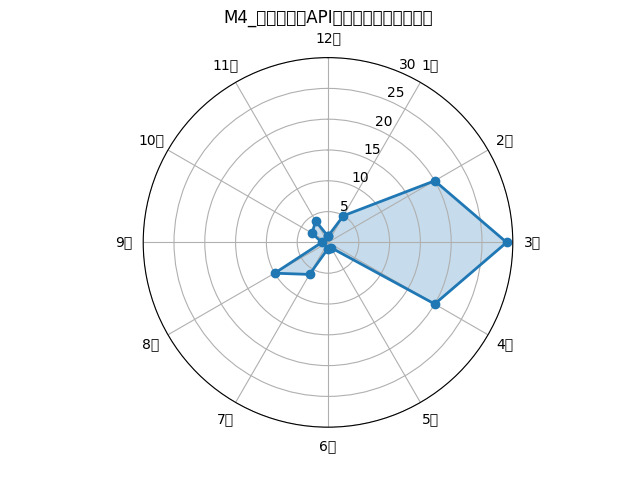
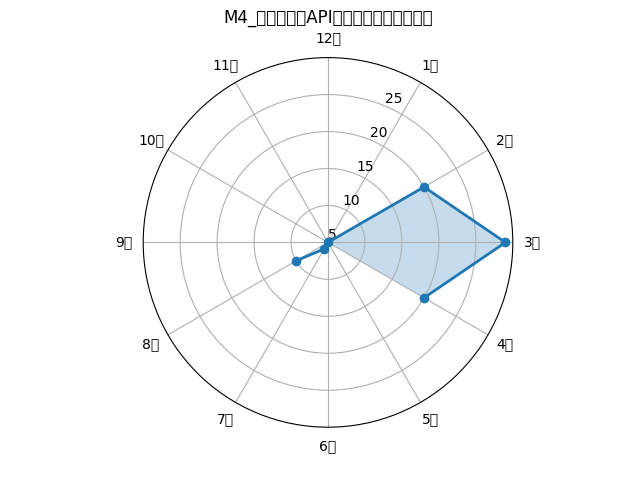
Auto-save: 2025-09-16 05:30:28

diff --git a/report-autogenerator/user_api_counter.py b/report-autogenerator/user_api_counter.py
@@ -1,9 +1,16 @@
+
 import pandas as pd
 import os
 from collections import Counter
-
 import matplotlib.pyplot as plt
 import numpy as np
+import glob
+
+# outputフォルダを空にする
+out_dir = os.path.join(os.path.dirname(__file__), 'output')
+os.makedirs(out_dir, exist_ok=True)
+for f in glob.glob(os.path.join(out_dir, '*_radar.png')):
+    os.remove(f)
 
 # source_dataフォルダ内のExcelファイル一覧を取得
 data_dir = os.path.join(os.path.dirname(__file__), 'source_data')
@@ -25,24 +32,81 @@ for file in files:
 
         # レーダーチャート作成（12が0時、1-11が時計回りに並ぶように修正）
         labels = [f'{i}時' for i in [12] + list(range(1, 12+1))[:-1]]  # [12,1,2,...,11]
-        # データも同じ順序に並べ替え
-        values = [radar_counts[11]] + radar_counts[:11]  # [12,1,2,...,11]
-        values += [values[0]]  # 閉じるため先頭を最後に
-        angles = np.linspace(0, 2 * np.pi, 13)
 
-        fig, ax = plt.subplots(subplot_kw={'polar': True})
-        ax.set_theta_zero_location('N')  # 0度を上（北）に
-        ax.set_theta_direction(-1)       # 時計回り
-        ax.plot(angles, values, 'o-', linewidth=2)
-        ax.fill(angles, values, alpha=0.25)
-        ax.set_thetagrids(np.arange(0, 360, 30), labels)
-        ax.set_title(f'{sheet}のAPI分類レーダーチャート')
-        ax.set_rlim(0, max(values)+1)
 
-        # 保存
-        out_dir = os.path.join(os.path.dirname(__file__), 'output')
-        os.makedirs(out_dir, exist_ok=True)
-        out_path = os.path.join(out_dir, f'{sheet}_radar.png')
-        plt.savefig(out_path)
-        plt.close()
-        print(f'レーダーチャート画像を保存: {out_path}')
+    # 値はそのまま（0～max）で、r軸の最小値を5に設定し、中心が5になるように修正
+    values = [radar_counts[11]] + radar_counts[:11]  # [12,1,2,...,11]
+    values += [values[0]]  # 閉じるため先頭を最後に
+    angles = np.linspace(0, 2 * np.pi, 13)
+
+    fig, ax = plt.subplots(subplot_kw={'polar': True})
+    ax.set_theta_zero_location('N')  # 0度を上（北）に
+    ax.set_theta_direction(-1)       # 時計回り
+    ax.plot(angles, values, 'o-', linewidth=2)
+    ax.fill(angles, values, alpha=0.25)
+    ax.set_thetagrids(np.arange(0, 360, 30), labels)
+    ax.set_title(f'{sheet}のAPI分類レーダーチャート')
+    # r軸の最小値を5に設定
+    rmax = max(max(values), 10) + 1
+    ax.set_rlim(5, rmax)
+    # rlabelの表示を調整
+    step = 5
+    rticks = list(range(5, rmax, step))
+    ax.set_yticks(rticks)
+    ax.set_yticklabels([str(r) for r in rticks])
+
+    # 保存
+    out_path = os.path.join(out_dir, f'{sheet}_radar.png')
+
+    import pandas as pd
+    import os
+    from collections import Counter
+    import matplotlib.pyplot as plt
+    import numpy as np
+    import glob
+
+    # 出力ディレクトリを空に
+    out_dir = os.path.join(os.path.dirname(__file__), 'output')
+    os.makedirs(out_dir, exist_ok=True)
+    for f in glob.glob(os.path.join(out_dir, '*_radar.png')):
+        os.remove(f)
+
+    # データ取得
+    data_dir = os.path.join(os.path.dirname(__file__), 'source_data')
+    files = [f for f in os.listdir(data_dir) if f.endswith('.xlsx')]
+
+    for file in files:
+        file_path = os.path.join(data_dir, file)
+        xls = pd.ExcelFile(file_path)
+        for sheet in xls.sheet_names:
+            if sheet == 'overall':
+                continue
+            df = pd.read_excel(xls, sheet_name=sheet)
+            api_col = df['API検証']
+            counts = Counter(api_col)
+    # [12,1,2,...,11,12]の順で値・角度を揃え、ラベルは12個
+    radar_counts = [counts.get(12, 0)] + [counts.get(i, 0) for i in range(1, 12)]
+    values = radar_counts + [radar_counts[0]]  # [12,1,2,...,11,12]
+    labels = [f'{i}時' for i in [12] + list(range(1, 12))]  # 12個
+    angles = np.linspace(0, 2 * np.pi, 13, endpoint=True)
+    print(f'{sheet} のAPI分類値カウント: {radar_counts}')
+
+    fig, ax = plt.subplots(subplot_kw={'polar': True})
+    ax.set_theta_zero_location('N')
+    ax.set_theta_direction(-1)
+    ax.plot(angles, values, 'o-', linewidth=2)
+    ax.fill(angles, values, alpha=0.25)
+    ax.set_thetagrids(np.arange(0, 360, 30), labels)
+    ax.set_title(f'{sheet}のAPI分類レーダーチャート')
+    # r軸の最小値を5に
+    rmax = max(max(values), 10) + 1
+    ax.set_rlim(5, rmax)
+    step = 5
+    rticks = list(range(5, rmax, step))
+    ax.set_yticks(rticks)
+    ax.set_yticklabels([str(r) for r in rticks])
+
+    out_path = os.path.join(out_dir, f'{sheet}_radar.png')
+    plt.savefig(out_path)
+    plt.close()
+    print(f'レーダーチャート画像を保存: {out_path}')
